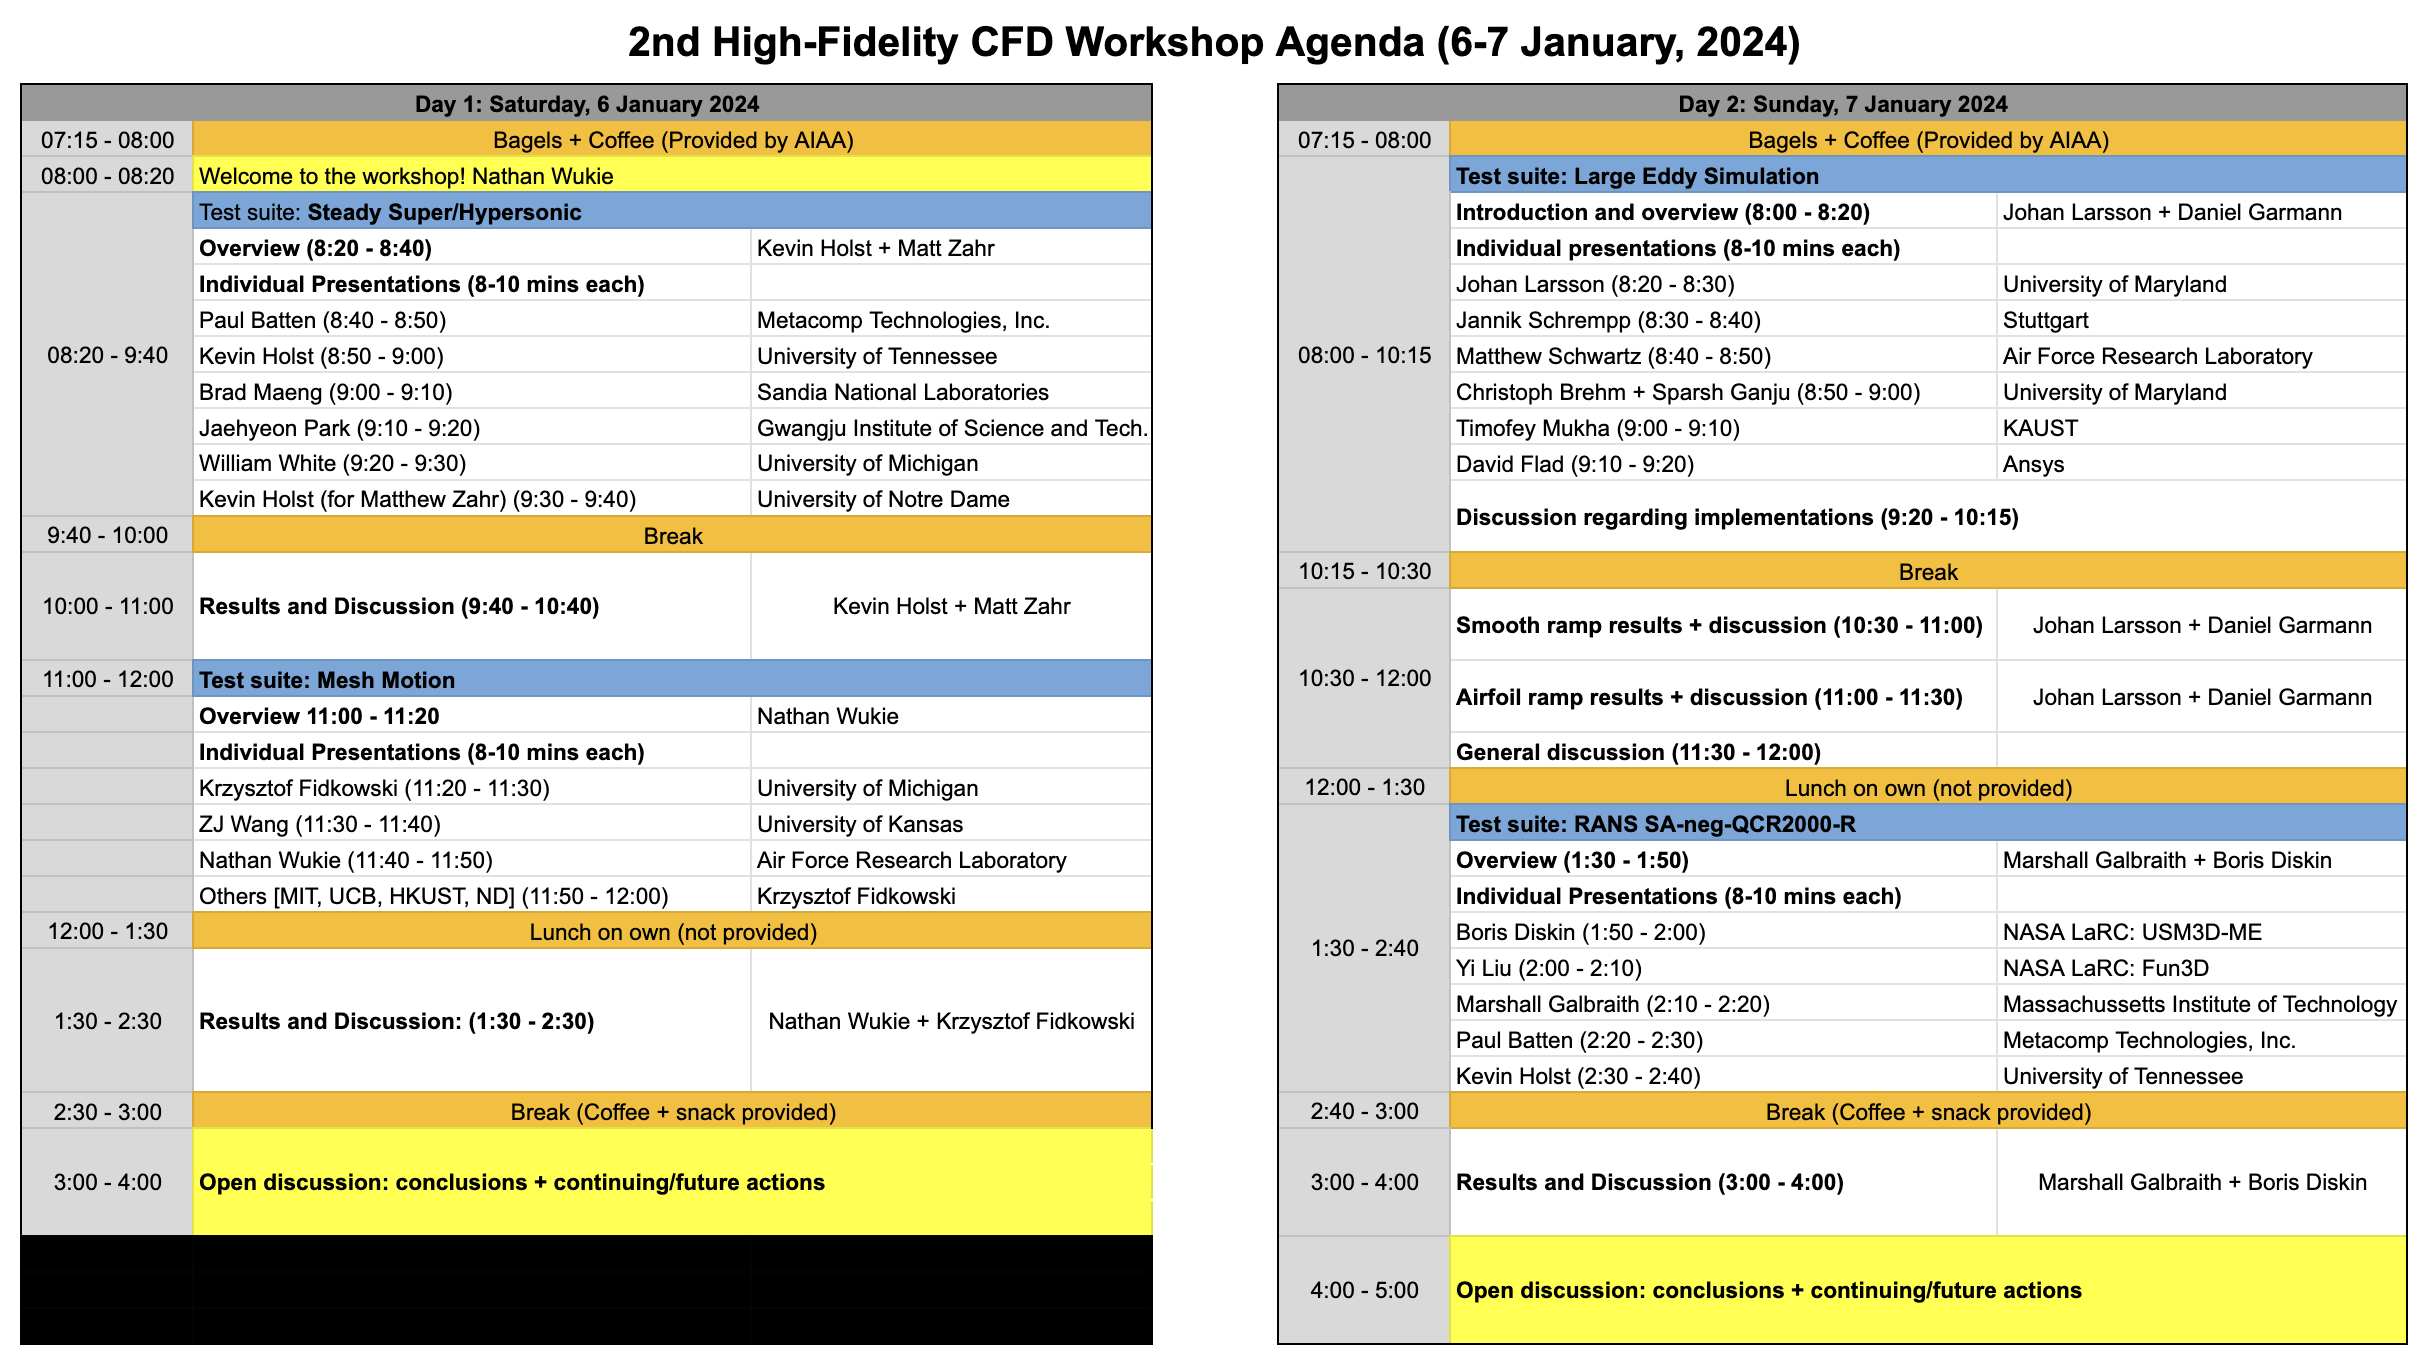
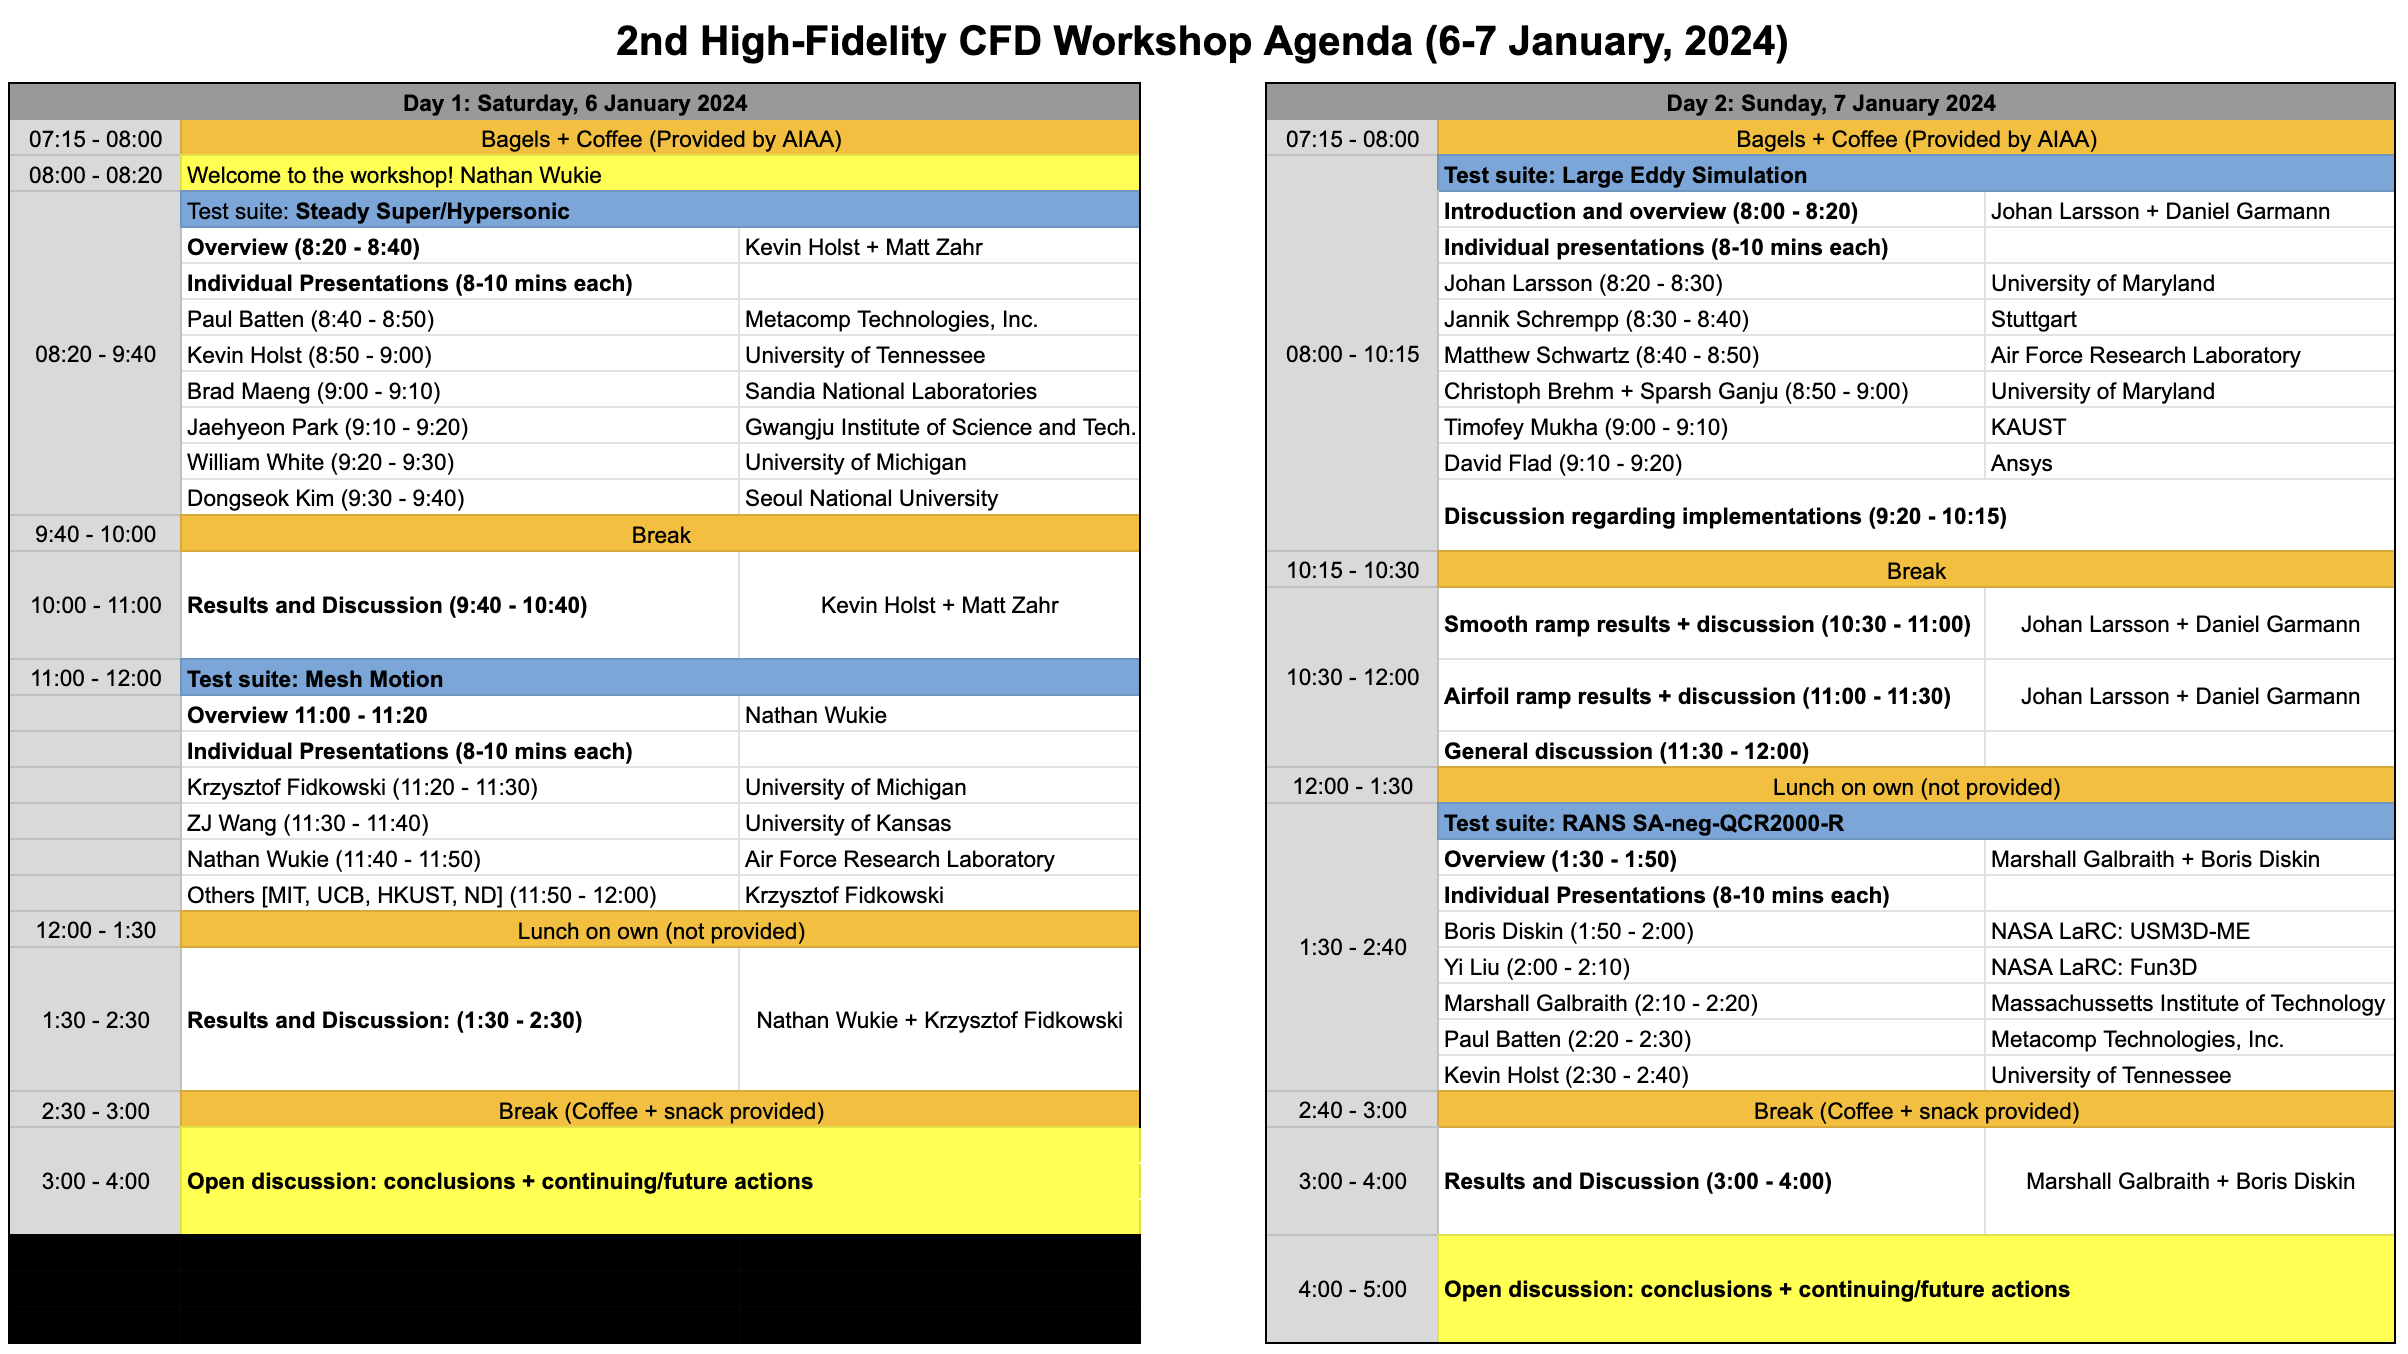
Update agenda

diff --git a/agenda.md b/agenda.md
@@ -22,7 +22,7 @@ title: Agenda
 | 9:00 - 9:10       | Brad Maeng - Sandia National Laboratories                     |
 | 9:10 - 9:20       | Jaehyeon Park - Gwangju Institute of Science and Tech.        |
 | 9:20 - 9:30       | William White - University of Michigan                        |
-| 9:30 - 9:40       | Kevin Holst (for Matt Zahr) - University of Notre Dame        |
+| 9:30 - 9:40       | Dongseok Kim - Seoul National University                      |
 |                   |                                                               |
 | **9:40 - 10:00**  | **Break**                                                     |
 |                   |                                                               |
